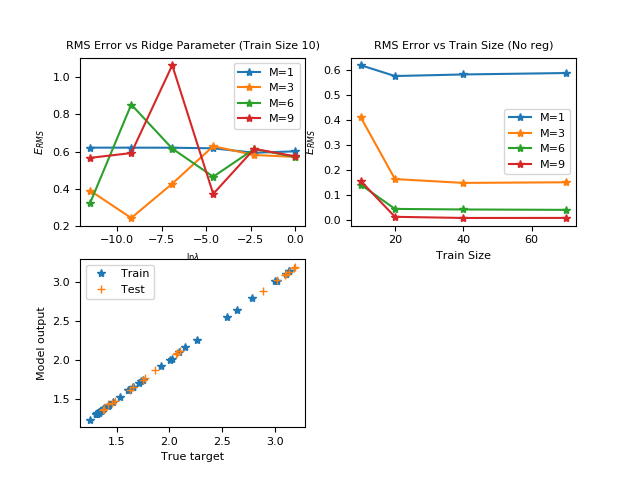
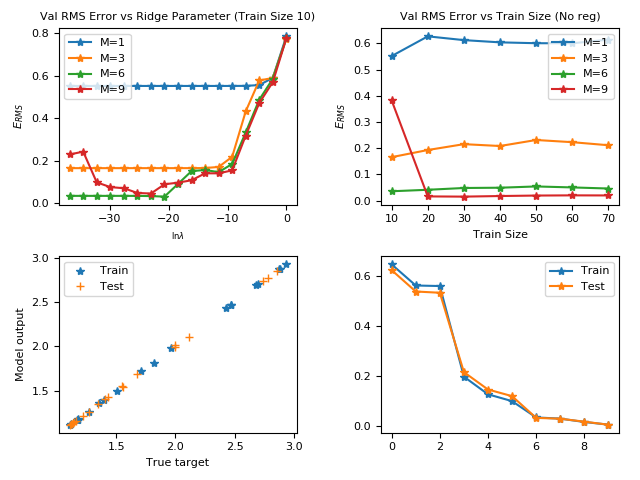
added plots for q4

diff --git a/regression.py b/regression.py
@@ -3,23 +3,25 @@ import matplotlib.pyplot as plt
 import pandas as pd
 
 def getPolyfit(X,w) :
-    # print(X.shape, w.shape)
     return np.matmul(X,w)
 
 def getWeights(X,y,ridge) :
-    # print(X.shape, y.shape)
+    print(np.matmul(np.transpose(X),X))
+    # print(ridge*np.eye(X.shape[1]) + np.matmul(np.transpose(X),X))
+
+    # print(np.linalg.inv(ridge*np.eye(X.shape[1]) + np.matmul(np.transpose(X),X)))
+    # print(np.matmul(np.matmul(np.linalg.inv(ridge*np.eye(X.shape[1]) + np.matmul(np.transpose(X),X)),np.transpose(X)),y))
     return np.matmul(np.matmul(np.linalg.inv(ridge*np.eye(X.shape[1]) + np.matmul(np.transpose(X),X)),np.transpose(X)),y)
 
 def getPolyfeatures(X,n) :
-    # print(n)
     return np.squeeze(np.transpose(np.array([X**i for i in range(n+1)]))).reshape(-1,n+1)
 
-def getRMSE(ytrue,ypred,lamda=0,w=0) :
-    return np.sqrt((np.sum(np.multiply(ytrue-ypred,ytrue-ypred)) + np.sum(np.multiply(w,w)))/ytrue.shape[0])
+def getRMSE(ytrue,ypred,ridge,w) :
+    return np.sqrt((np.sum(np.multiply(ytrue-ypred,ytrue-ypred)) + ridge*np.sum(np.multiply(w,w)))/ytrue.shape[0])
     
 
 # Seeding
-np.random.seed(10)
+np.random.seed(42)
 
 # Generate 100 points in (0,1)
 X = np.random.uniform(low=0,high=1,size=100).reshape(-1,1)
@@ -38,8 +40,10 @@ y_test = y[train_size+val_size:train_size+val_size+test_size]
 
 # Settings
 degrees = [1,3,6,9]
-ridges = [0, 0.00001, 0.0001, 0.001, 0.01, 0.1, 1]
-sizes = [10,20,40,70]
+ridges = [10**(-17+x) for x in range(18)]
+ridges[0] = 0
+# ridges = [0, 0.00001, 0.0001, 0.001, 0.01, 0.1, 1]
+sizes = [10,20,30, 40, 50, 60, 70]
 all_degrees = np.linspace(0,9,10).astype(int)
 
 # X_train_new = np.array([1,2,3,4])
@@ -48,126 +52,146 @@ all_degrees = np.linspace(0,9,10).astype(int)
 fig = 221
 rmses = []
 
-default = 0
-if default :
-    ridges = [0]
-    sizes = [10]
-    figure = plt.figure()
+# default = 0
+# if default :
+#     ridges = [0]
+#     sizes = [10]
+#     figure = plt.figure()
 
-for degree in degrees : 
-    for ridge in ridges :
-        for size in sizes : 
-            X_train_new = X_train[:size]
-            y_train_new = y_train[:size]
-            X_train_new_poly = getPolyfeatures(X_train_new, degree)
-            w = getWeights(X_train_new_poly, y_train_new, ridge)
-            y_pred_new = getPolyfit(X_train_new_poly,w)
-            rmse_train = getRMSE(y_train_new, y_pred_new)
-            rmse_val = getRMSE(y_val,getPolyfit(getPolyfeatures(X_val,degree),w))
-            rmses.append(np.array([degree, ridge, size, rmse_val]))
+# for degree in degrees : 
+#     for ridge in ridges :
+#         for size in sizes : 
+#             X_train_new = X_train[:size]
+#             y_train_new = y_train[:size]
+#             X_train_new_poly = getPolyfeatures(X_train_new, degree)
+#             w = getWeights(X_train_new_poly, y_train_new, ridge)
+#             y_pred_new = getPolyfit(X_train_new_poly,w)
+#             rmse_train = getRMSE(y_train_new, y_pred_new, ridge, w)
+#             rmse_val = getRMSE(y_val,getPolyfit(getPolyfeatures(X_val,degree),w), ridge, w)
+#             rmses.append(np.array([degree, ridge, size, rmse_val]))
 
-            if default :
-                plt.subplot(fig)
-                fig+=1
-                if fig%2 :
-                    plt.xlabel("x")
-                else :
-                    plt.ylabel("target")
-                plt.plot(X_train_new,y_train_new,'*')
-                x = np.linspace(0,1,100)
-                x_poly = getPolyfeatures(x,degree)
-                y_func = getPolyfit(x_poly,w)
-                np.savetxt("results/coefficients/"+str(degree)+".txt",w,newline=" ")
-                M = "M="+str(degree)
-                plt.plot(x, y_func,label=M)
-                plt.ylim(0, 4)
-                plt.xlim(0,1)
-                plt.legend()
+#             if default :
+#                 plt.subplot(fig)
+#                 fig+=1
+#                 if fig%2 :
+#                     plt.xlabel("x")
+#                 else :
+#                     plt.ylabel("target")
+#                 plt.plot(X_train_new,y_train_new,'*')
+#                 x = np.linspace(0,1,100)
+#                 x_poly = getPolyfeatures(x,degree)
+#                 y_func = getPolyfit(x_poly,w)
+#                 np.savetxt("results/coefficients/"+str(degree)+".txt",w,newline=" ")
+#                 M = "M="+str(degree)
+#                 plt.plot(x, y_func,label=M)
+#                 plt.ylim(0, 4)
+#                 plt.xlim(0,1)
+#                 plt.legend()
 
-                figure.suptitle("Data, Target, Regression Output")
-                plt.savefig("results/targetvsx.png")
+#                 figure.suptitle("Data, Target, Regression Output")
+#                 plt.savefig("results/targetvsx.png")
 
-best_model = rmses[np.argmin(np.array(rmses),axis=0)[-1]]
-print("Parameters of best model has degree {:.2f}, lambda {:.2f}, train size {:.2f}".format(best_model[0],best_model[1],best_model[2]))
+# best_model = rmses[np.argmin(np.array(rmses),axis=0)[-1]]
+# print("Parameters of best model has degree {:.2f}, lambda {:.2f}, train size {:.2f}".format(best_model[0],best_model[1],best_model[2]))
 
-rmse1 = []
-deg1 = []
-rmse2 = []
-deg2 = []
+# rmse1 = []
+# deg1 = []
+# rmse2 = []
+# deg2 = []
 
-for rmse in rmses :
-    if rmse[2] == 10 and rmse[1] !=0 :
-        rmse1.append(rmse[3])
-        deg1.append(rmse[0])
-    if rmse[1] == 0 :
-        rmse2.append(rmse[3])
-        deg2.append(rmse[0])
+# for rmse in rmses :
+#     if rmse[2] == 10 and rmse[1] !=0 :
+#         rmse1.append(rmse[3])
+#         deg1.append(rmse[0])
+#     if rmse[1] == 0 :
+#         rmse2.append(rmse[3])
+#         deg2.append(rmse[0])
 
-plt.rcParams.update({'font.size': 8})
+# plt.rcParams.update({'font.size': 8})
+# plt.subplot(221)
+# xaxis = np.log(np.array(ridges[1:]))
+# for i in range(int(len(rmse1)/xaxis.shape[0])) :
+#     start = i*xaxis.shape[0]
+#     end = start+xaxis.shape[0]
+#     yaxis = rmse1[start : end]
+#     plt.plot(xaxis,yaxis,'-*',label="M="+str(degrees[i]))
 
-plt.subplot(221)
-xaxis = np.log(np.array(ridges[1:]))
-for i in range(int(len(rmse1)/xaxis.shape[0])) :
-    start = i*xaxis.shape[0]
-    end = start+xaxis.shape[0]
-    yaxis = rmse1[start : end]
-    plt.plot(xaxis,yaxis,'-*',label="M="+str(degrees[i]))
+# plt.xlabel(r"$\ln  \lambda $",fontsize=6)
+# plt.ylabel(r"$E_{RMS}$",fontsize=8)
+# plt.title("Val RMS Error vs Ridge Parameter (Train Size 10)",fontsize=8)
+# plt.legend(fontsize=8)
 
-plt.xlabel(r"$\ln  \lambda $",fontsize=6)
-plt.ylabel(r"$E_{RMS}$",fontsize=8)
-plt.title("RMS Error vs Ridge Parameter (Train Size 10)",fontsize=8)
-plt.legend(fontsize=8)
 
-plt.subplot(222)
-xaxis = np.array(sizes)
-for i in range(int(len(rmse2)/xaxis.shape[0])) :
-    start = i*xaxis.shape[0]
-    end = start+xaxis.shape[0]
-    yaxis = rmse2[start : end]
-    plt.plot(xaxis,yaxis,'-*',label="M="+str(degrees[i]))
-plt.xlabel("Train Size",fontsize=8)
-plt.ylabel(r"$E_{RMS}$",fontsize=8)
-plt.title("RMS Error vs Train Size (No reg)",fontsize=8)
-plt.legend(fontsize=8)
+# plt.subplot(222)
+# xaxis = np.array(sizes)
+# for i in range(int(len(rmse2)/xaxis.shape[0])) :
+#     start = i*xaxis.shape[0]
+#     end = start+xaxis.shape[0]
+#     yaxis = rmse2[start : end]
+#     plt.plot(xaxis,yaxis,'-*',label="M="+str(degrees[i]))
+# plt.xlabel("Train Size",fontsize=8)
+# plt.ylabel(r"$E_{RMS}$",fontsize=8)
+# plt.title("Val RMS Error vs Train Size (No reg)",fontsize=8)
+# plt.legend(fontsize=8, loc="upper right")
 
-plt.subplot(223)
+# plt.subplot(223)
 
-size = best_model[2].astype(int)
-ridge = best_model[1]
-degree = best_model[0].astype(int)
+# size = best_model[2].astype(int)
+# ridge = best_model[1]
+# degree = best_model[0].astype(int)
 
-X_train_new = X_train[:size]
-y_train_new = y_train[:size]
-X_train_new_poly = getPolyfeatures(X_train_new, degree)
-w = getWeights(X_train_new_poly, y_train_new, ridge)
-y_pred_new = getPolyfit(X_train_new_poly,w)
-y_pred_test = getPolyfit(getPolyfeatures(X_test,degree),w)
+# X_train_new = X_train[:size]
+# y_train_new = y_train[:size]
+# X_train_new_poly = getPolyfeatures(X_train_new, degree)
+# w = getWeights(X_train_new_poly, y_train_new, ridge)
+# y_pred_new = getPolyfit(X_train_new_poly,w)
+# y_pred_test = getPolyfit(getPolyfeatures(X_test,degree),w)
 
-plt.plot(y_train_new, y_pred_new,"*",label="Train")
-plt.plot(y_test, y_pred_test,"+",label="Test")
-plt.xlabel("True target",fontsize=8)
-plt.ylabel("Model output",fontsize=8)
-plt.legend(fontsize=8)
+# plt.plot(y_train_new, y_pred_new,"*",label="Train")
+# plt.plot(y_test, y_pred_test,"+",label="Test")
+# plt.xlabel("True target",fontsize=8)
+# plt.ylabel("Model output",fontsize=8)
+# # plt.title("Output vs target", fontsize=8)
+# plt.legend(fontsize=8)
 
 ridge = 0
-size = 70
+size = 10
 X_train_new = X_train[:size]
 y_train_new = y_train[:size]
 
 rmse_train = []
 rmse_test = [] 
-
+all_degrees = [9]
 for degree in all_degrees : 
     X_train_new_poly = getPolyfeatures(X_train_new, degree)
-    print(X_train_new_poly.shape)
+    # print(X_train_new_poly.shape)
     w = getWeights(X_train_new_poly, y_train_new, ridge)
     y_pred_new = getPolyfit(X_train_new_poly,w)
-    rmse_train.append(getRMSE(y_train_new, y_pred_new))
-    rmse_test.append(getRMSE(y_test,getPolyfit(getPolyfeatures(X_test,degree),w)))
+    plt.plot(y_pred_new, y_train_new, "*")
+    rmse_train.append(getRMSE(y_train_new, y_pred_new, ridge, w))
+    rmse_test.append(getRMSE(y_test,getPolyfit(getPolyfeatures(X_test,degree),w), ridge, w))
+print(rmse_train)
+print(rmse_test)
+print(w)
 
-plt.subplot(224)
+# plt.subplot(224)
+# plt.tight_layout()
+# plt.plot(all_degrees,rmse_train,"-*",label="Train")
+# plt.plot(all_degrees,rmse_test,"-*",label="Test")
+# plt.legend(fontsize=8,loc="upper right")
+# plt.savefig("results/erms.png")
 
-plt.plot(all_degrees,rmse_train,"-*",label="Train")
-plt.plot(all_degrees,rmse_test,"-*",label="Test")
-plt.savefig("results/erms.png")
+
+# degree = 9
+# X_train_new = np.arange(-int(degree/2),int(degree/2)+2)   
+# y_train_new = (X_train_new+1)**degree
+# ridge = 0
+# X_train_new_poly = getPolyfeatures(X_train_new, degree)
+# w = getWeights(X_train_new_poly, y_train_new, ridge)
+# # print(w)
+# y_pred_new = getPolyfit(X_train_new_poly,w)
+
+# rmse_train = getRMSE(y_train_new, y_pred_new, ridge, w)
+
+# print(rmse_train)
 plt.show()

diff --git a/pa4.py b/pa4.py
@@ -17,10 +17,16 @@ mu0 = -1
 x_plot = np.linspace(-25, 25, 1000)
 factors = [0.1, 1, 10, 100]
 dataset_sizes = [10, 100, 1000]
-
+fig = 221
 for factor in factors:
     mu_n = []
     sigma_estimates = []
+    
+    plt.subplot(fig)
+    plt.tight_layout()
+    plt.title(r'$\frac{\sigma^2}{\sigma^2_{0}}=$'+str(factor),fontsize=8)
+    fig+=1
+    
     for n in dataset_sizes:
         np.random.shuffle(data)
         X = data[0:n]
@@ -38,8 +44,14 @@ for factor in factors:
         # Of course, one reason for this is that we chose a uniform prior for sigma.
         # I chose the ML estimate of sigma as its uniform prior for Bayesian estimation for convenience :P
         sigma_estimates.append(sigma)
+  
     for i in range(3):
         labelname = "n = " + str(dataset_sizes[i])
         plt.plot(x_plot, stats.norm.pdf(x_plot, mu_n[i], sigma_estimates[i]), label = labelname)
-    plt.legend()
-    plt.show()
+        if fig == 223 :
+            plt.legend(fontsize=8, loc='upper right')
+# plt.legend()
+# plt.figlegend(labels=['n=10','n=100','n=1000'], loc='center center')
+plt.suptitle("Estimated Density P(x/D)",fontsize=8)
+plt.savefig("results/q4.png")
+plt.show()
